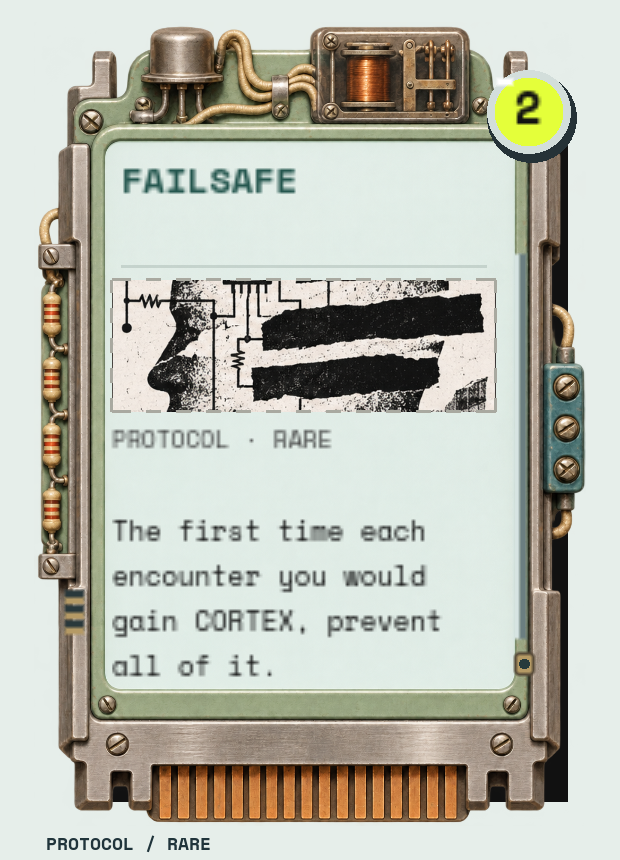
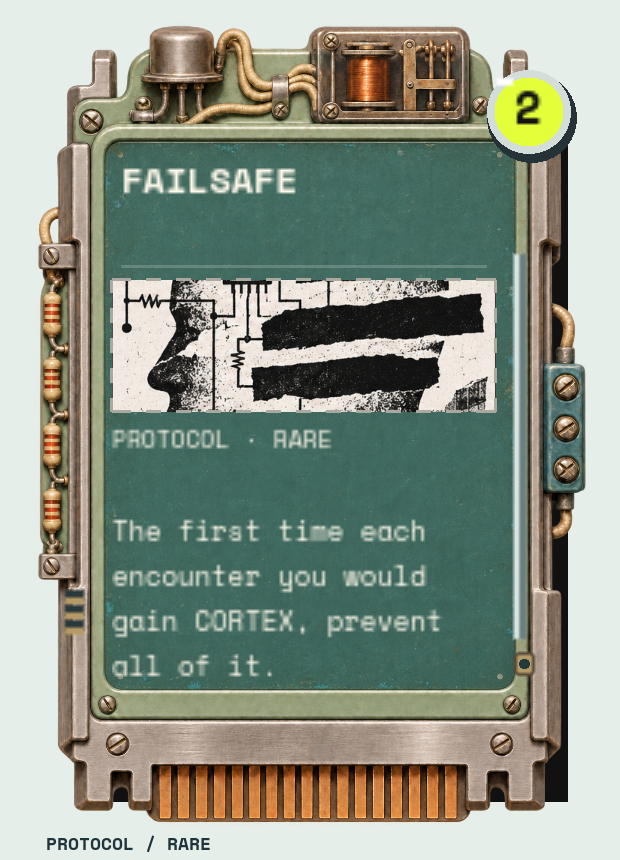
CARDS-001: Apply selected board colours and oxide-red Whirlwind Bloatware prototype

diff --git a/docs/REDLINE_DEVELOPMENT_LOG.md b/docs/REDLINE_DEVELOPMENT_LOG.md
@@ -4,15 +4,6 @@
 
 **LOG-001 (2026-11-16):** entries from 2026-11-08 to 2026-11-14 are in `REDLINE_DEVELOPMENT_LOG_ARCHIVE.md`, unchanged. Keep this file under about 60 KB (HANDOFF, "How we work" 6).
 
-## 2026-11-15 — DSY-001 to DSY-014 and PACE-001 to PACE-010 approved for the next build (Claude)
-
-**Designer decision:** "Approve everything as written", to be implemented in the next build. `REDLINE_DECK_SYNERGY.md` → v1.0 and `REDLINE_PACING.md` → v1.0, every decision marked **APPROVED 2026-11-15**. Numbers remain working values to tune in playtest. Optional and conditional items stay as written: DSY-001b (GHOST +1 DRAW) optional; PACE-003's BOOTING-on-turn-4 only if playtest 2 shows an Opening Node breach before turn 4; PACE-006's safety valves held in reserve.
-
-**Docs amended** (a "Later amendments (deck synergy and pacing)" table added to each, which wins where it conflicts with older section text): Core Rules, Card Pools, Uplink & CAPS, Upgrades/Events/Escape, Rustlers, Engines, ICE Corp 1–3. `REDLINE_PLAYTEST_CHECKLIST.md` → v0.2 (B1, C1, K1 revised; C9–C11, G6–G11 added). `HANDOFF.md`: build work listed for Codex in five synergy steps plus pacing; Claude tasks for scoring the slice and Phase 7 pools.
-
-**Code changes:** none. **Tests run:** none.
-
-
 ## 2026-11-15 — REJECT-001: Use one DEADLOCK on REJECT ALL (Codex)
 
 **Commit reference:** `playtest3-step0` (tag on this step commit).
@@ -524,3 +515,14 @@ GENERALIST also has two stalls, counted separately from deaths. Mean end decks G
 **Validation:** 357 rules checks and 612 cartridge UI checks pass, including authored/compiled text fit and protruding bounds. Five Chrome stages pass; refreshed nine close-ups, six/eight-card captures and ten encounter review PNGs. The earlier dated whole entry was appended unchanged to the archive under LOG-001 to keep this live log below about 60 KB.
 
 **Review:** material tint and direct-print title treatment are proposed visual refinements. PR #12 is updated, not merged; designer approval of the integrated revision is still required under the existing merge instruction. No gameplay data, rarity odds or costs changed.
+
+
+## 2026-11-17 — CARDS-001: selected board colours and Whirlwind Bloatware (Codex)
+
+**Commit tag:** `cards-001-board-palette`.
+
+**Designer choices:** A/C/D board colours selected for card faces; Whirlwind #3 selected as Bloatware prototype. The pale Bloatware plate was rejected (“No card should have a white background for the text”). Brown Bloatware was then rejected for matching SCRIPT; oxide-red D received “Perfect”. That confirms the D material choice; no approval of the entire PR/merge is inferred.
+
+**Changed:** tobacco-brown SCRIPT, earthy olive PROGRAM, muted blue-green PROTOCOL; direct light printing on real board-style textures. BLOATWARE now has the Whirlwind-inspired protective U-handle, paired tubes, open cage/stacked boards and oxide-red phenolic face. Names, costs and rules are live controls. TRACER/SPAM remain BLOATWARE with unchanged unplayability/clear/TRACE rules; both now use the same component-aware bounds as other cartridges. Cached Bloatware retains full rules and CACHED marker; optional corporate flavour footer yields space when cached. No white card text panels remain. A–D review labels denote the four types; source-reference letters A/C/D remain palette provenance.
+
+**Validation:** Godot 4.3 import, 357 rules checks and 170 Friendly Lie UI checks pass. Extended cartridge fixture passes 625 checks and covers all authored/compiled texts, both Bloatware examples including cached text, component bounds and a mixed-type hand. Selected older log entry appended unchanged to the archive under LOG-001. Asset sources/guide/status/HANDOFF and PNGs are updated. No card definitions, rarity weights, costs or gameplay values changed. PR #12 remains open for integrated review before merge.

diff --git a/docs/REDLINE_CURRENT_STATUS.md b/docs/REDLINE_CURRENT_STATUS.md
@@ -21,3 +21,5 @@ The latest CHROME-001 plaque revision replaces the black ICE rule panels with pe
 CARDS-001 refines Rustler cards into heavy slot cartridges with paper labels: SCRIPT uses Bakelite/stamped steel, PROGRAM cast aluminum and vacuum tubes, PROTOCOL enamel relay hardware. Exposed wiring, resistors, transistors, contact teeth and guide rails extend beyond the card face. The BW badge mounts on the upper chassis edge outside the white label. Authored rarity is unchanged: common/plain, uncommon two-notch/brass detail, rare three-notch/fine double-metal finish, with printed rarity text; STARTER keeps its label and plain finish. Bloatware stays corporate. Cards are 164×244 with protected component bounds; the hand/rack spacing and choice padding accommodate the frame. The new templates also appear in reward offers and inspection. Nine close-up PNGs and 6-/8-card encounter captures are in `docs/visual/fixtures/cards-001/`. No gameplay/card definitions changed; merge remains pending designer approval of PR #12.
 
 CARDS-001 face revision removes black title bars and dark beige labels. Titles print directly on light ivory SCRIPT stock, pearl PROGRAM plates and pale celadon PROTOCOL enamel, within the existing chassis. Updated samples supersede the darker faces; final approval/merge remains pending.
+
+The selected board palette supersedes the pale label studies: SCRIPT uses A-family tobacco/khaki brown, PROGRAM C-family earthy olive, PROTOCOL D-family muted blue-green. BLOATWARE now uses the Whirlwind reference's handle/paired tubes/cage/plug-in board construction, with a distinct oxide-red phenolic face selected by the designer (“Perfect”). All text prints directly on board material; no card has a white text panel. Bloatware's authored type, unplayability and clear/TRACE rules are unchanged.

diff --git a/godot/assets/friendly_lie/cartridges/SOURCES.md b/godot/assets/friendly_lie/cartridges/SOURCES.md
@@ -9,3 +9,6 @@ Generated with OpenAI image generation on 2026-11-17 for the designer's request 
 The PNGs are empty template illustrations with transparency. Live Godot controls supply names, costs, type/tags, authored rarity, card rules and art. The authored types remain SCRIPT/PROGRAM/PROTOCOL/BLOATWARE; rarity data and reward odds are unchanged. Common/start-of-run carriers use plain finishes; uncommon/rare indexing and metal details are rendered by code, with full rarity labels for non-color identification. Bloatware retains its corporate app-card treatment. Material details and motif reuse remain prototype artwork pending designer review.
 
 The 2026-11-17 face revision uses generated edits of the same three frames to replace beige label material with light ivory SCRIPT stock, pearl PROGRAM plate and pale celadon PROTOCOL enamel. Titles are live dark printing with no black bar; no title text is baked into the assets.
+
+
+Selected board-material revision (2026-11-17): generated edits use A-family tobacco/khaki brown for SCRIPT (IBM SMS material photo), C-family olive for PROGRAM (GE-225 board photo) and D-family blue-green for PROTOCOL (RCA connector material photo). These references include early-1960s examples; they guide material colour rather than a claim of exact 1950s manufacture. Whirlwind construction reference: Computer History Museum object 102732036, https://www.computerhistory.org/collections/catalog/102732036 . The generated `bloatware.png` adapts its protective handle, paired tubes and open cage to the slot-cartridge format. The designer selected a distinct oxide-red board face for Bloatware; light plate/brown Bloat prototypes were rejected and are superseded. No museum photograph is used directly as game art. Labels and rules remain live controls.

diff --git a/docs/HANDOFF.md b/docs/HANDOFF.md
@@ -46,7 +46,7 @@ ZEROED-001, its RIOT cards, and TUMBLE-001 are built; see the tagged rows below.
 
 | IDs | Change | Commit reference |
 |---|---|---|
-| CARDS-001 | Heavy SCRIPT/PROGRAM/PROTOCOL slot-cartridge templates; external BW rating tabs; light type-specific faces and direct-print titles; common/uncommon/rare finish details; protected protrusions; nine close-ups and six/eight-card captures. Types, rarity weights, costs and rules unchanged. | **BUILT** — `cards-001-lightfaces` |
+| CARDS-001 | Heavy SCRIPT/PROGRAM/PROTOCOL slot-cartridge templates; external BW rating tabs; brown/olive/teal board faces, oxide-red Whirlwind Bloatware and direct-print titles; common/uncommon/rare finish details; protected protrusions; nine close-ups and six/eight-card captures. Types, rarity weights, costs and rules unchanged. | **BUILT** — `cards-001-board-palette` |
 | CHROME-001 | Refine the CAPTCHA encounter in the designer-selected Chrome Deco direction: readable real rules/cards, illustrated mascot shells, atrium, corporate escalation and native interaction feedback. Ten refreshed full-screen PNG samples; pearl-enamel ICE service plaques; type-specific heavy slot cartridges with outside BW tabs and restrained rarity finishes; prototype art and final fidelity await review. | **BUILT** — `chrome-001-enamel` (code `chrome-001-step5`) |
 | VIS-001 | The Friendly Lie encounter: fonts/skins, zine hand/HUD, mascot scans and moods, corporation break states, drag/motion/accessibility, seven PNG review fixtures. Visual only; ZEROED/TUMBLE integrated first. | **BUILT** — `vis-001g` (steps `vis-001a`–`vis-001g`) |
 | TUMBLE-001 | Remove broken TUMBLER subs and tumble immediately active replacements | **BUILT** — `zeroed-tumble-step3` |

diff --git a/docs/HALCYON_PLAYTEST_GUIDE.md b/docs/HALCYON_PLAYTEST_GUIDE.md
@@ -131,3 +131,5 @@ Rustler card types now have distinct physical constructions: SCRIPT instructions
 BW is printed on a raised rating tab at the upper-right chassis edge, largely outside the white label. Common cards have a plain single-notch finish; uncommon cards add two indexing notches and a small brass fitting; rares use three notches and fine double-metal detail. Full rarity labels remain visible, so color alone is not required. STARTER stays STARTER; rarity/reward odds and costs are unchanged. The new frames are used in the hand, HOLD/READY RIG choices, reward offers and inspection. Protruding parts are included in hit-testing and choice-scroll padding. The shallower hand fan makes room for the hardware without a hand-size cap.
 
 Card titles now print directly on each light face instead of a black strip: ivory instruction stock (SCRIPT), cool pearl instrument plate (PROGRAM), pale celadon enamel (PROTOCOL). The frames, external BW tabs and rarity details are unchanged.
+
+The selected board palette supersedes the pale label studies: SCRIPT uses A-family tobacco/khaki brown, PROGRAM C-family earthy olive, PROTOCOL D-family muted blue-green. BLOATWARE now uses the Whirlwind reference's handle/paired tubes/cage/plug-in board construction, with a distinct oxide-red phenolic face selected by the designer (“Perfect”). All text prints directly on board material; no card has a white text panel. Bloatware's authored type, unplayability and clear/TRACE rules are unchanged.

diff --git a/docs/REDLINE_DEVELOPMENT_LOG_ARCHIVE.md b/docs/REDLINE_DEVELOPMENT_LOG_ARCHIVE.md
@@ -1371,3 +1371,15 @@ Added CRED-cost display to card frames, revised the original BACKDOOR regression
 **Code changes:** none. **Tests run:** none (no Godot in Claude's environment). The proposals' numbers are working values, not tested.
 
 <!-- LOG-001: oldest whole live-log entry appended on 2026-11-17. -->
+
+
+## 2026-11-15 — DSY-001 to DSY-014 and PACE-001 to PACE-010 approved for the next build (Claude)
+
+**Designer decision:** "Approve everything as written", to be implemented in the next build. `REDLINE_DECK_SYNERGY.md` → v1.0 and `REDLINE_PACING.md` → v1.0, every decision marked **APPROVED 2026-11-15**. Numbers remain working values to tune in playtest. Optional and conditional items stay as written: DSY-001b (GHOST +1 DRAW) optional; PACE-003's BOOTING-on-turn-4 only if playtest 2 shows an Opening Node breach before turn 4; PACE-006's safety valves held in reserve.
+
+**Docs amended** (a "Later amendments (deck synergy and pacing)" table added to each, which wins where it conflicts with older section text): Core Rules, Card Pools, Uplink & CAPS, Upgrades/Events/Escape, Rustlers, Engines, ICE Corp 1–3. `REDLINE_PLAYTEST_CHECKLIST.md` → v0.2 (B1, C1, K1 revised; C9–C11, G6–G11 added). `HANDOFF.md`: build work listed for Codex in five synergy steps plus pacing; Claude tasks for scoring the slice and Phase 7 pools.
+
+**Code changes:** none. **Tests run:** none.
+
+
+<!-- LOG-001: oldest whole live-log entry appended on 2026-11-17. -->
